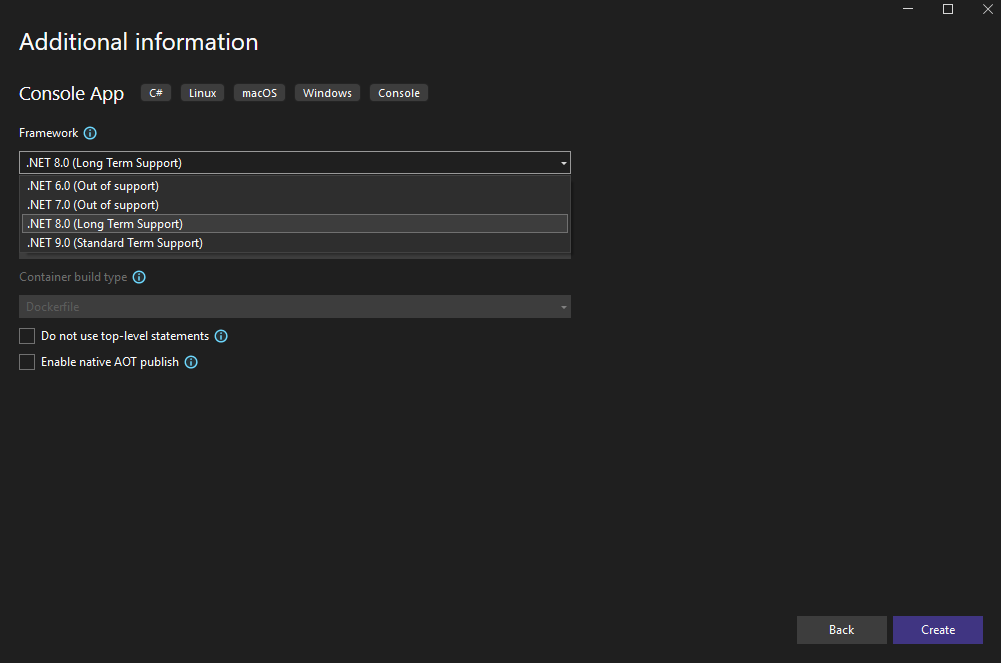
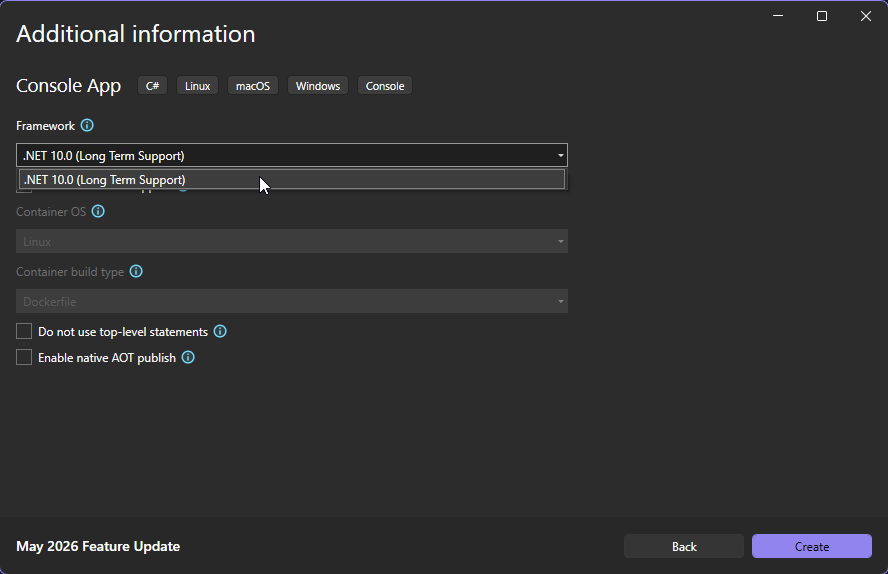
update basic guide for .NET 10

diff --git a/docs/src/guide/basic.md b/docs/src/guide/basic.md
@@ -7,7 +7,7 @@
 ### Basic Project Setup
 In this short guide, we will go over the very basics of parsing assets through UAssetAPI.
 
-UAssetAPI targets [.NET 8.0](https://dotnet.microsoft.com/en-us/download/dotnet/8.0), which means you will need the .NET 8.0 SDK to use UAssetAPI. We will start off in this specific guide by creating a new C# Console App project in Visual Studio, making sure we specifically target .NET 8.0:
+UAssetAPI targets [.NET 10.0](https://dotnet.microsoft.com/en-us/download/dotnet/10.0), which means you will need the .NET 10.0 SDK to use UAssetAPI. We will start off in this specific guide by creating a new C# Console App project in Visual Studio, making sure we specifically target .NET 10.0:
 
 ![](./img/basic1.png)
 ![](./img/basic2.png)